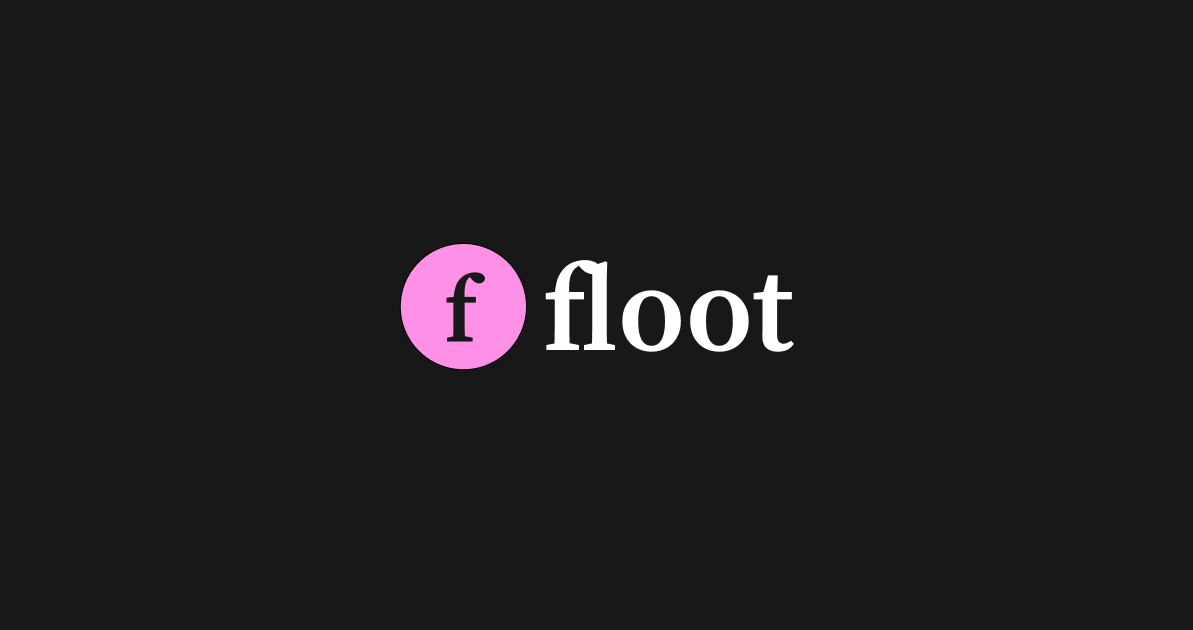
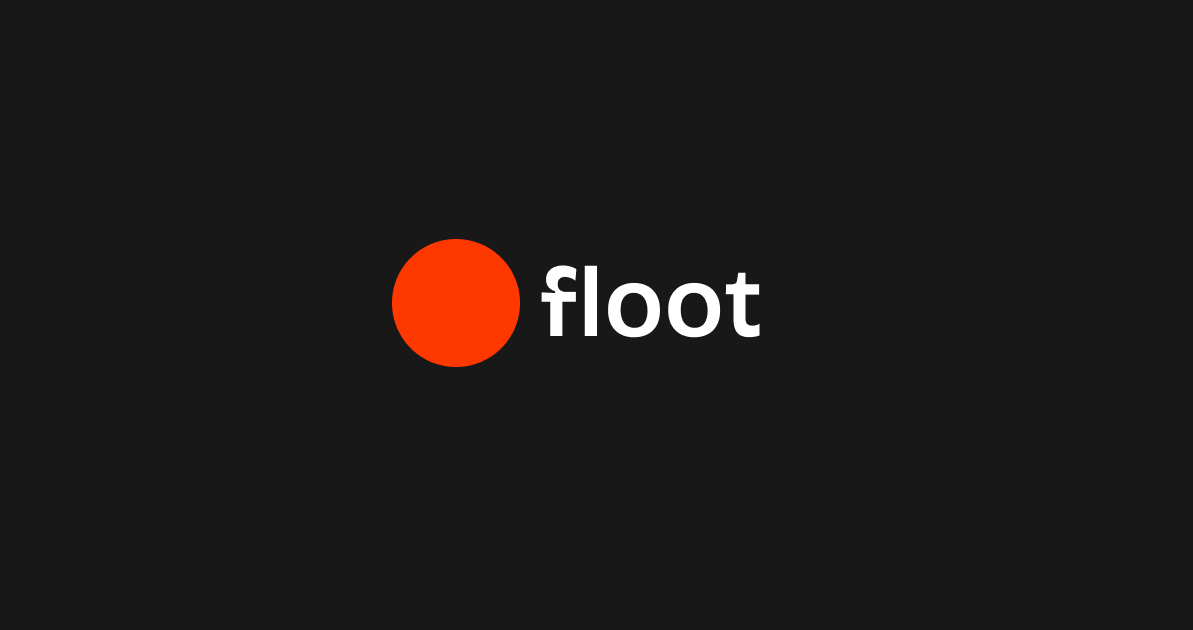
updates

Changed region(s): [[0.3101, 0.3619, 0.6823, 0.6032]]

diff --git a/components/yours.tsx b/components/yours.tsx
@@ -2,19 +2,25 @@ import Image from 'next/image';
 
 const items = [
   {
-    title: 'Code',
-    description: 'Complete code ownership.',
+    title: 'Your Code',
+    description:
+      'Every line of code is yours to keep. Export, modify, or host it anywhere.',
     backgroundImage: '/A.png',
+    icon: '/code.svg',
   },
   {
-    title: 'Data',
-    description: 'All app data belongs to you.',
+    title: 'Your Data',
+    description:
+      'All your app data stays under your control. Download or migrate it anytime.',
     backgroundImage: '/B.png',
+    icon: '/data.svg',
   },
   {
-    title: 'IP',
-    description: 'Full intellectual property rights.',
+    title: 'Your IP',
+    description:
+      'What you build on Floot belongs to you. Full intellectual property rights',
     backgroundImage: '/C.png',
+    icon: '/lightbulb.svg',
   },
 ];
 
@@ -46,22 +52,32 @@ export default function Yours() {
               <div className='rounded-lg border border-gray-200 bg-white shadow-[0_1px_3px_rgba(0,0,0,0.06)] overflow-hidden'>
                 {/* Image area with background */}
                 <div className='p-3 pb-0'>
-                  <div className='relative rounded-lg overflow-hidden p-3'>
+                  <div className='relative rounded-lg overflow-hidden p-3 shadow-xl'>
                     <Image
                       src={item.backgroundImage}
                       alt=''
                       fill
                       className='object-cover pointer-events-none z-0'
                     />
-                    <div className='relative z-10 rounded-lg h-48 md:h-64' />
+                    <div className='relative z-10 rounded-lg h-48 md:h-64 flex items-center justify-center'>
+                      <div className='bg-white/20 backdrop-blur-md rounded-xl border border-white/10 py-4 px-6'>
+                        <Image
+                          src={item.icon}
+                          alt={item.title}
+                          width={48}
+                          height={48}
+                          className='pointer-events-none'
+                        />
+                      </div>
+                    </div>
                   </div>
                 </div>
                 {/* Text */}
-                <div className='p-5 text-center'>
-                  <h3 className='font-bricolage-grotesque font-semibold text-lg text-zinc-800 mb-1'>
+                <div className='p-5'>
+                  <h2 className='font-bricolage-grotesque font-bold text-xl text-zinc-800 mb-2'>
                     {item.title}
-                  </h3>
-                  <p className='text-gray-500 text-sm leading-relaxed'>
+                  </h2>
+                  <p className='text-gray-500 text-sm leading-relaxed max-w-[300px]'>
                     {item.description}
                   </p>
                 </div>

diff --git a/components/ui/card.tsx b/components/ui/card.tsx
@@ -21,7 +21,7 @@ function CardHeader({ className, ...props }: React.ComponentProps<'div'>) {
     return (
         <div
             data-slot="card-header"
-            className={cn('flex flex-col gap-1.5 p-6', className)}
+            className={cn('grid auto-rows-min grid-rows-[auto_auto] items-start gap-1.5 p-6 has-data-[slot=card-action]:grid-cols-[1fr_auto]', className)}
             {...props}
         />
     )
@@ -57,6 +57,16 @@ function CardContent({ className, ...props }: React.ComponentProps<'div'>) {
     )
 }
 
+function CardAction({ className, ...props }: React.ComponentProps<'div'>) {
+    return (
+        <div
+            data-slot="card-action"
+            className={cn('col-start-2 row-span-2 row-start-1 self-start justify-self-end', className)}
+            {...props}
+        />
+    )
+}
+
 function CardFooter({ className, ...props }: React.ComponentProps<'div'>) {
     return (
         <div
@@ -67,4 +77,4 @@ function CardFooter({ className, ...props }: React.ComponentProps<'div'>) {
     )
 }
 
-export { Card, CardHeader, CardFooter, CardTitle, CardDescription, CardContent }
+export { Card, CardAction, CardHeader, CardFooter, CardTitle, CardDescription, CardContent }

diff --git a/components/mobile-drawer.tsx b/components/mobile-drawer.tsx
@@ -44,7 +44,7 @@ export default function MobileDrawer() {
           <div className='flex flex-col h-[50px] justify-center px-4 border-b border-zinc-300'>
             <div className='w-[200px]  flex items-center gap-1'>
               <Image src='/floot.svg' alt='Floot' width={25} height={25} />
-              <div className='text-zinc-800 text-xl font-semibold heading-serif'>
+              <div className='text-zinc-800 text-xl font-semibold font-bricolage-grotesque'>
                 floot
               </div>
             </div>

diff --git a/components/footer-two.tsx b/components/footer-two.tsx
@@ -60,7 +60,7 @@ export default function FooterTwo() {
                   height={25}
                 />
               </Link>
-              <div className='text-white text-xl font-semibold heading-serif'>
+              <div className='text-white text-xl font-semibold font-bricolage-grotesque'>
                 floot
               </div>
             </div>
